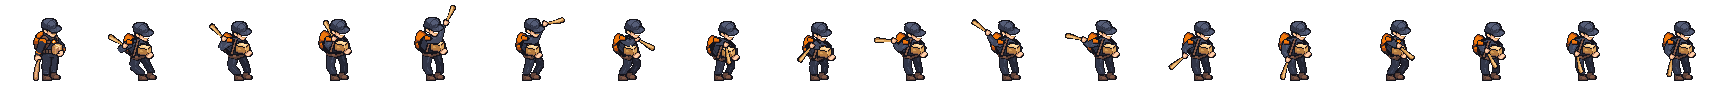
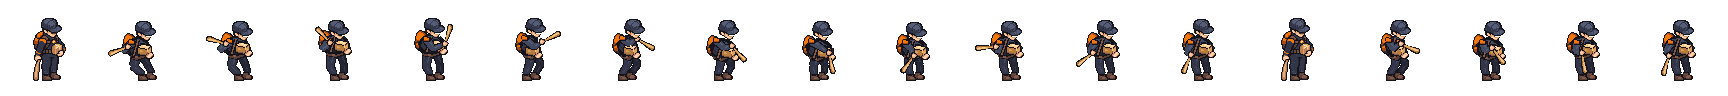
fix: R10-02 앞오른쪽 정지 스윙의 궤적과 회수 개선

diff --git a/game/tests/test_attack_walk_visual.py b/game/tests/test_attack_walk_visual.py
@@ -75,8 +75,8 @@ class AttackWalkSpriteTests(unittest.TestCase):
     def test_stationary_fr_holds_contact_on_hit_and_follows_through_on_miss(self):
         image = self.visual.images["attack_stationary_front_right"]
         for elapsed, hit_cell, miss_cell in ((.24, 6, 6), (.275, 6, 7), (.299, 6, 7),
-                                            (.30, 14, 8), (.34, 14, 9), (.40, 15, 10),
-                                            (.46, 16, 11), (.53, 17, 12), (.60, 13, 13)):
+                                            (.30, 14, 8), (.34, 15, 9), (.40, 16, 10),
+                                            (.46, 17, 11), (.53, 12, 12), (.60, 13, 13)):
             for landed, cell in ((True, hit_cell), (False, miss_cell)):
                 with self.subTest(elapsed=elapsed, landed=landed):
                     attack = SimpleNamespace(facing="front_right", stationary_front_right=True,

diff --git a/PRD.md b/PRD.md
@@ -66,7 +66,7 @@
 ## 전투와 이동
 
 - 준비 → 타격 1회 → 회복 순서입니다. 타격 순간 지면 발점 거리 70px 이내, 몸 방향 기준 전방 ±30° 안에 있고 벽에 가리지 않은 좀비는 모두 한 번씩 맞습니다.
-- 앞오른쪽 정지 스윙은 어깨 뒤에서 시작해 몸통이 먼저 돌고 팔이 따라옵니다. 명중하면 0.24초 접촉 자세를 0.34초까지 유지한 뒤 배트를 당깁니다. 헛스윙하면 배트가 몸을 가로질러 반대쪽 어깨 위까지 올라간 뒤 내려옵니다. 두 동작은 0.66초에 끝납니다.
+- 앞오른쪽 정지 스윙은 팔을 접어 준비한 뒤 몸통과 팔을 돌려 배트를 몸 앞에서 휘두릅니다. 명중하면 0.24초 접촉 자세를 0.30초까지 유지한 뒤 짧게 되튕겨 회수합니다. 헛스윙하면 배트가 몸 앞을 가로질러 옆으로 빠진 뒤 내려옵니다. 두 동작은 0.53초부터 같은 회수 자세로 이어지고 0.66초에 끝납니다.
 - 클릭 순간의 몸 방향을 회복이 끝날 때까지 고정합니다. 월드 흔들림은 좀비 명중 3px, 주인공 피격 4px입니다. HUD와 조준점은 고정되며 헛스윙 때는 월드도 고정됩니다.
 - 한 공격에서 피해가 중복되지 않으며 연타로 회복 시간을 취소하지 않습니다. 주인공은 공격 시작부터 회복 끝까지 제자리에 서고, 이동 키를 누르고 있으면 종료 직후 다시 걷습니다.
 - 살아 있는 좀비는 배트에 맞으면 0.70초 동안 경직됩니다. 처음 0.10초 동안 주인공 반대 방향으로 최대 8px 밀리며, 벽과 맵 경계가 이동을 제한합니다. 피격 시 진행 중 공격이 취소됩니다. 주인공은 회복 직후부터 0.28초 동안 추격 없이 물러날 수 있습니다.
